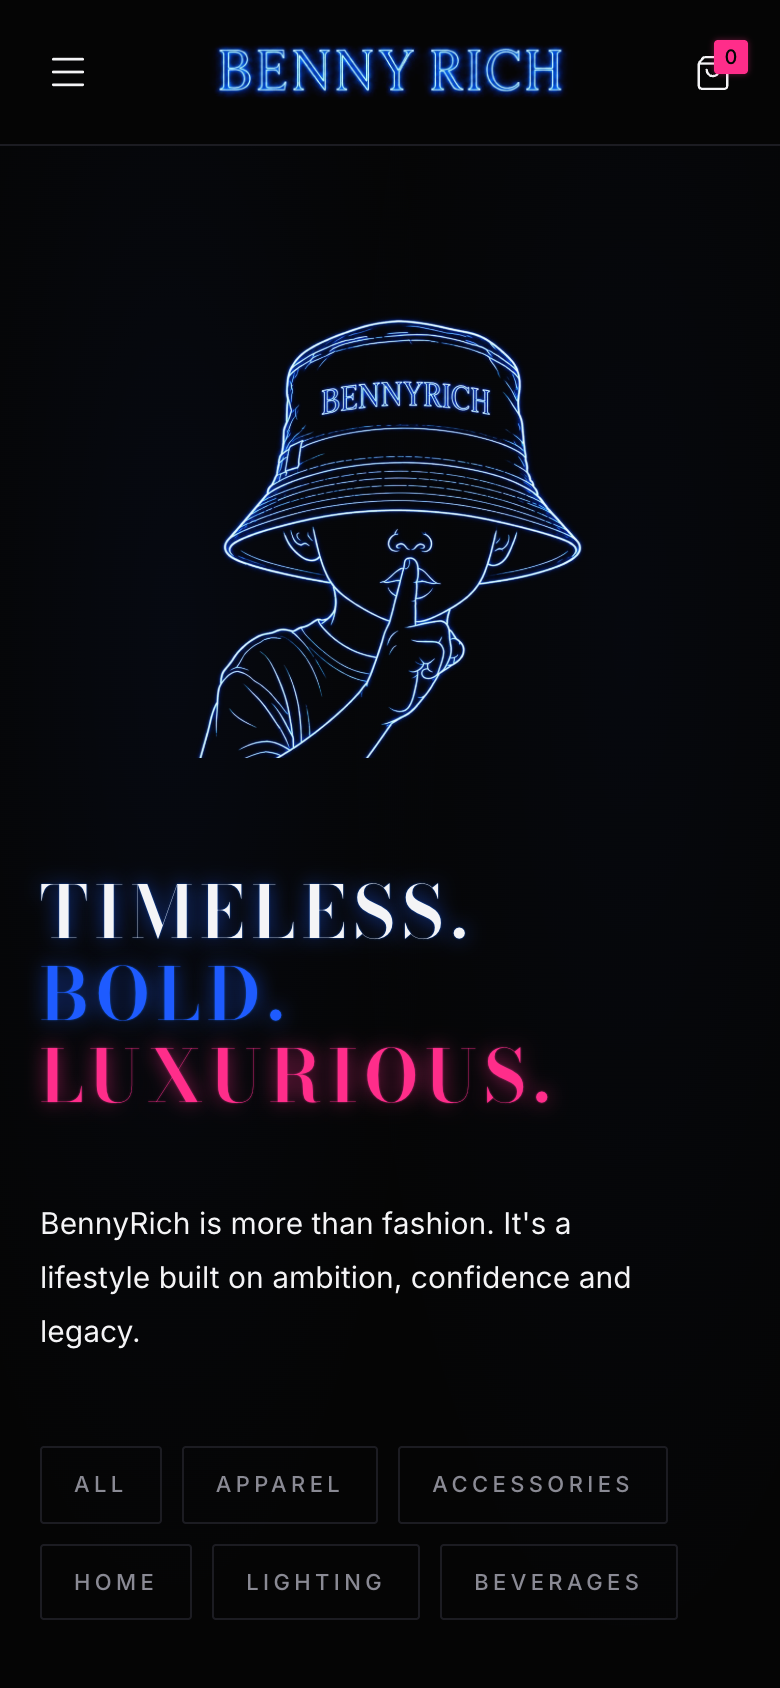
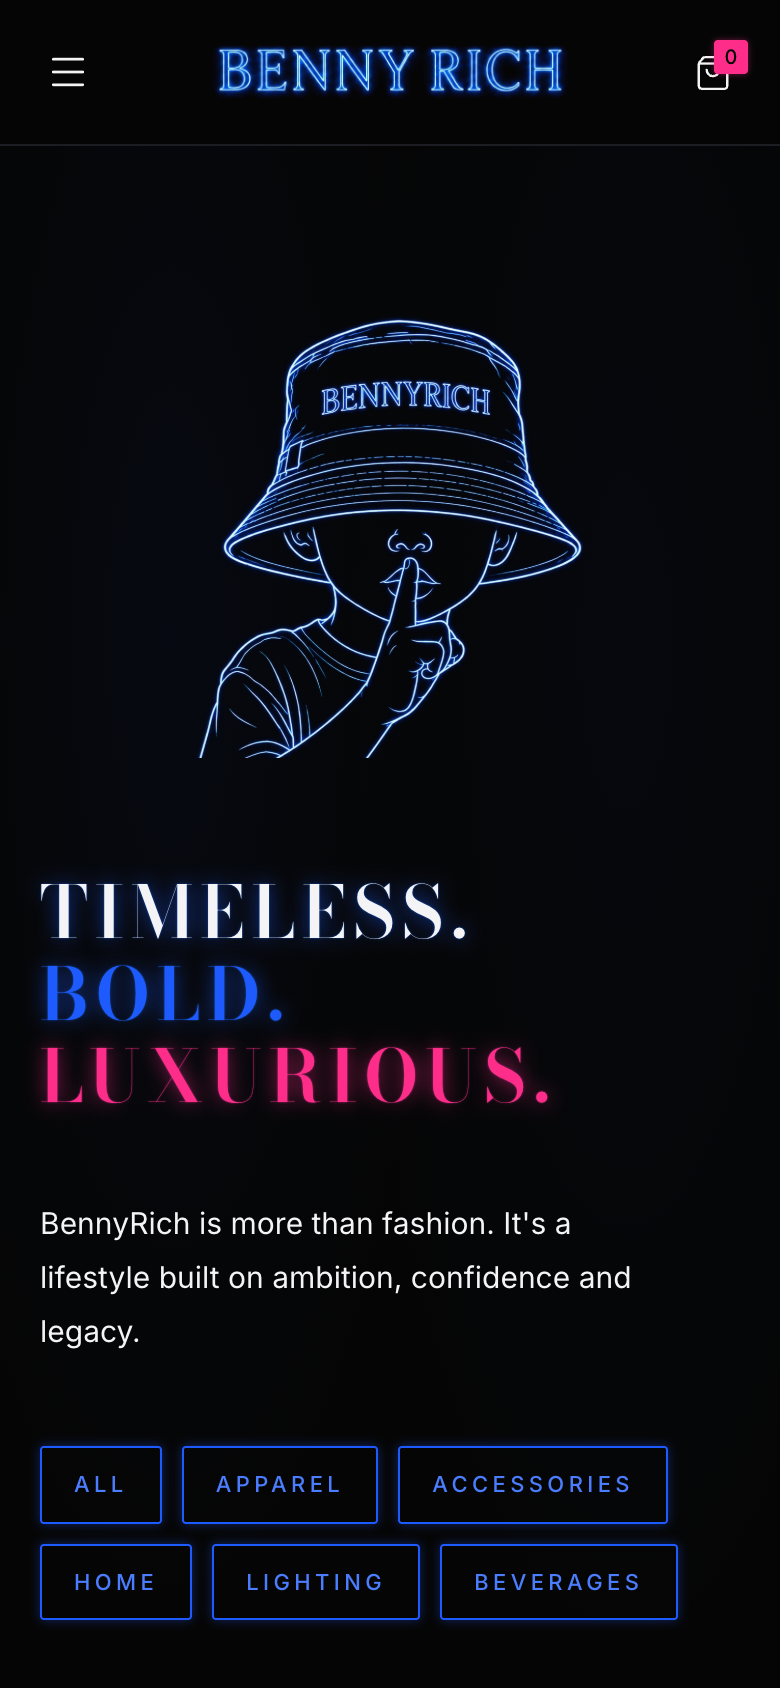
BR-14b: the hero pills get a lit rest state
At Sander's review. BR-14 gave the pills the /shop chip's resting look —
--br-line hairline, --br-mute label, blue only on hover — and flagged in its
own open questions that it read too quiet, because these pills are the hero's
only call to action and they replaced a lit blue button.

Rest is now neon-btn's, exactly: --br-blue border, the 5px/40% house halo, a
--br-blue-text label, transparent ground. Not an approximation of the old
"Shop now" button — it is what that button was, which is the point.

Chip parity with /shop is given up on purpose, and that is the trade: a hero
CTA that pulls beats resembling a filter control one page away.

Hover had to move. The pill is already blue, so hover:neon-line-blue became a
no-op and hover would have been invisible. It now takes neon-btn's 8% ground
wash and brightens the label to --br-white; border and halo stay put, two
layers maximum, nothing animated. Confirmed as computed style, not by eye:
rest #4A7DFF on #1E5BFF, hover #F4F4F6 + blue/8% ground.

The label stays --br-blue-text (5.50:1), never --br-blue (3.88:1 at 11px).
That rule matters more now that the label is blue at rest, not just on hover.

Scope is one constant, HERO_PILL. HomeV1, HomeV2, Hero (including the
HERO_CATEGORY_NAV=false button branch), FeaturedCollection,
BuiltDifferentBanner and HeroCategoryNav are all byte-identical to d19ea3a.

The arbitrary hover:bg-[color-mix(...)] is the first in the JSX — every other
[…]

Changed region(s): [[0.0308, 0.8318, 0.8615, 0.9858], [0.8615, 0.9242, 0.8923, 0.955]]

diff --git a/src/routes/index.tsx b/src/routes/index.tsx
@@ -99,21 +99,31 @@ function Hero({ cta }: { cta?: ReactNode }) {
 }
 
 /**
- * The pill shape, shared by all six links. It is the /shop filter chip
- * (CategoryProductsPage), so the row a shopper meets in the hero and the chips
- * they meet on the next page are recognisably the same object.
+ * The pill shape, shared by all six links.
  *
- * Two deliberate deviations from that chip, both of which are bugs if copied:
+ * BR-14 gave these the /shop filter chip's resting look — `--br-line` hairline,
+ * `--br-mute` label, blue only on hover. BR-14b lit them at rest at Sander's
+ * request: as the hero's only call to action the quiet chip read too weak where
+ * a blue "Shop now" button used to be.
  *
- *   1. the resting border colour is a CLASS, never an inline style — an inline
- *      colour beats `hover:neon-line-blue` and the pill silently stops lighting;
- *   2. the lit label is --br-blue-text, not the chip's --br-blue, which is
- *      3.88:1 at 11px and fails AA. This is what neon-btn itself uses.
+ * So the REST state is now neon-btn's: a `--br-blue` border with the house halo
+ * and a `--br-blue-text` label. That is deliberate — the brief was "read as lit,
+ * like the old button", and the old button was exactly this.
+ *
+ * Three things that must not drift:
+ *
+ *   1. the border is set by CLASS (`neon-line-blue`), never an inline style — an
+ *      inline colour outranks the hover rules and the pill stops reacting;
+ *   2. the label is --br-blue-text (5.50:1), never --br-blue, which is 3.88:1 at
+ *      11px and fails AA. This is the same call neon-btn makes;
+ *   3. rest is lit, so HOVER has to move somewhere else or there is no feedback
+ *      at all. It takes neon-btn's 8% ground wash and brightens the label to
+ *      --br-white. Colour and background only, 200ms, nothing pulses.
  */
 const HERO_PILL =
-  "br-label border border-br-line px-4 py-2.5 text-[var(--br-mute)] " +
-  "transition-[color,border-color,box-shadow] duration-200 " +
-  "hover:neon-line-blue hover:text-[var(--br-blue-text)]";
+  "br-label neon-line-blue border px-4 py-2.5 text-[var(--br-blue-text)] " +
+  "transition-[color,background-color,border-color,box-shadow] duration-200 " +
+  "hover:bg-[color-mix(in_srgb,var(--br-blue)_8%,transparent)] hover:text-[var(--br-white)]";
 
 /**
  * Category navigation where the single "Shop now" button used to be. BR-14, at

diff --git a/docs/role-audit.md b/docs/role-audit.md
@@ -2347,3 +2347,82 @@ the escape hatch shot, same 2560x6544 as BR-12's.
    the value strip), the DB image-URL reconcile, `SITE_URL` still on the Lovable
    preview host, `br-sunglasses` still has no image, the reshoot list from BR-7,
    no product URLs in the sitemap, Google Fonts still load before consent.
+
+# BR-14b — the hero pills get a lit rest state (2026-08-27)
+
+Date: 2026-08-27 · `main` · base `d19ea3a`
+
+BR-14 shipped the hero pills in the `/shop` filter chip's resting look: a
+`--br-line` hairline, a `--br-mute` label, blue only on hover. That was correct
+per the design system and consistent with the chips a shopper meets on the next
+page — and it was flagged in BR-14's own open questions as reading too quiet,
+because the pills are now the hero's **only** call to action and they replaced a
+lit blue button.
+
+Sander confirmed it. The pills are lit at rest.
+
+## What the rest state is now
+
+`neon-btn`'s, exactly: a `--br-blue` border with the house 5px/40% halo and a
+`--br-blue-text` label on a transparent ground. That is not an approximation of
+the old "Shop now" button — it _is_ what that button was, which is what makes it
+the right answer to "read as lit, like the old button did".
+
+The chip parity BR-14 argued for is therefore given up on purpose. The hero and
+the `/shop` chips no longer match at rest. That trade was the client's call: a
+hero CTA that pulls is worth more than a resemblance to a filter control one
+page away.
+
+## Hover had to move
+
+Lighting the rest state costs the old hover — the pill was already blue, so
+`hover:neon-line-blue` became a no-op and hover would have been invisible. Hover
+now takes `neon-btn`'s 8% blue ground wash and brightens the label to
+`--br-white`. Border and halo deliberately stay put: two layers maximum, and no
+glow is animated.
+
+Verified as computed style rather than by eye, at 1280 over CDP:
+
+```
+REST   color #4A7DFF (--br-blue-text)   border #1E5BFF (--br-blue)
+       box-shadow 0 0 5px blue/40%      background transparent   radius 2px
+HOVER  color #F4F4F6 (--br-white)       border #1E5BFF (unchanged)
+       box-shadow unchanged             background blue/8%
+changed on hover: color, background
+```
+
+## The contrast rule held
+
+The label is `--br-blue-text` (5.50:1), never `--br-blue` (3.88:1 at 11px, fails
+AA). That is the same deviation from the `/shop` chip that BR-14 recorded — the
+chip's _active_ state uses `--br-blue` at 11px and is the thing not to copy. It
+matters more now, not less, because the label is blue at rest rather than only
+on hover.
+
+## Scope
+
+One constant in `src/routes/index.tsx`, `HERO_PILL`, plus its doc comment.
+Asserted rather than assumed: `HomeV1`, `HomeV2`, `Hero` (including the
+`HERO_CATEGORY_NAV = false` button branch), `FeaturedCollection`,
+`BuiltDifferentBanner` and `HeroCategoryNav` are all **byte-identical** to
+`d19ea3a`. Frozen files remain blob-identical to `6eaa043`; no dependency change.
+
+The arbitrary `hover:bg-[color-mix(...)]` class is the first of its kind in the
+JSX — every other `color-mix` in the project lives in `tokens.css`. It was
+confirmed to actually emit a rule in the built stylesheet rather than being
+silently dropped by the scanner, which is the failure mode worth checking for an
+arbitrary value with commas and parentheses in it:
+
+```
+hover\:bg-\[color-mix\(in_srgb\,var\(--br-blue\)_8\%\,transparent\)\]:hover
+  { background-color: color-mix(in srgb,var(--br-blue) 8%,transparent) }
+```
+
+If a third pill state is ever needed, that is the point to stop and put a
+`neon-pill` utility in `tokens.css` beside `neon-btn` instead.
+
+## Screenshots
+
+`docs/screens/BR-14/hero-pills-1280.png` and `hero-pills-390.png` re-shot
+against the lit state, plus `hero-pills-hover-1280.png` — a real hover, driven
+with `Input.dispatchMouseEvent`, since `tools/screens/capture.ts` has no mouse.

diff --git a/CLAUDE.md b/CLAUDE.md
@@ -612,3 +612,4 @@ omits the field, and the banner would then nag about an email nobody sent.
 | BR-12  | 2026-08-26 | Revision round 2. To `main`: TikTok removed sitewide, `info@` confirmed as the only address, and the vodka's 18+ gate proved to already fire (no second modal built). Behind `HOME_V2` on `br-12-home`: category tiles, a second product row that cannot repeat the first, and a claim-free brand statement. The mock was corrected against the real edge-function contract. Merged to `main`.                                                                                                           |
 | BR-12b | 2026-08-26 | The "Shop the range" second product row removed at client review — it read as a near-duplicate of the Featured Collection grid above it, and the category band already covers discovery. One component deleted, nothing orphaned, escape hatch untouched. Merged to `main`.                                                                                                                                                                                                                              |
 | BR-14  | 2026-08-27 | Revision round 3, all client-requested. The hero's "Shop now" button becomes six category pills behind `HERO_CATEGORY_NAV` (`Hero` takes a `cta` prop defaulting to the button, so the V1 arm is unchanged); the category band moves below the vodka; the rifle banner is hidden behind `SHOW_RIFLE_BANNER`, closing the ad-safety exposure open since BR-2.1. Fixed a doubled section gap that had shipped since BR-12, and a `"FIVE WORLDS"` comment that made CLAUDE.md's own standing grep return 1. |
+| BR-14b | 2026-08-27 | The hero pills lit at rest at client review — the muted `/shop` chip read too quiet as the hero's only CTA, so rest is now `neon-btn`'s blue border + `--br-blue-text` label and hover moved to the 8% ground wash. Chip parity given up on purpose; the AA rule on the 11px blue label holds. One constant in `index.tsx`.                                                                                                                                                                              |
